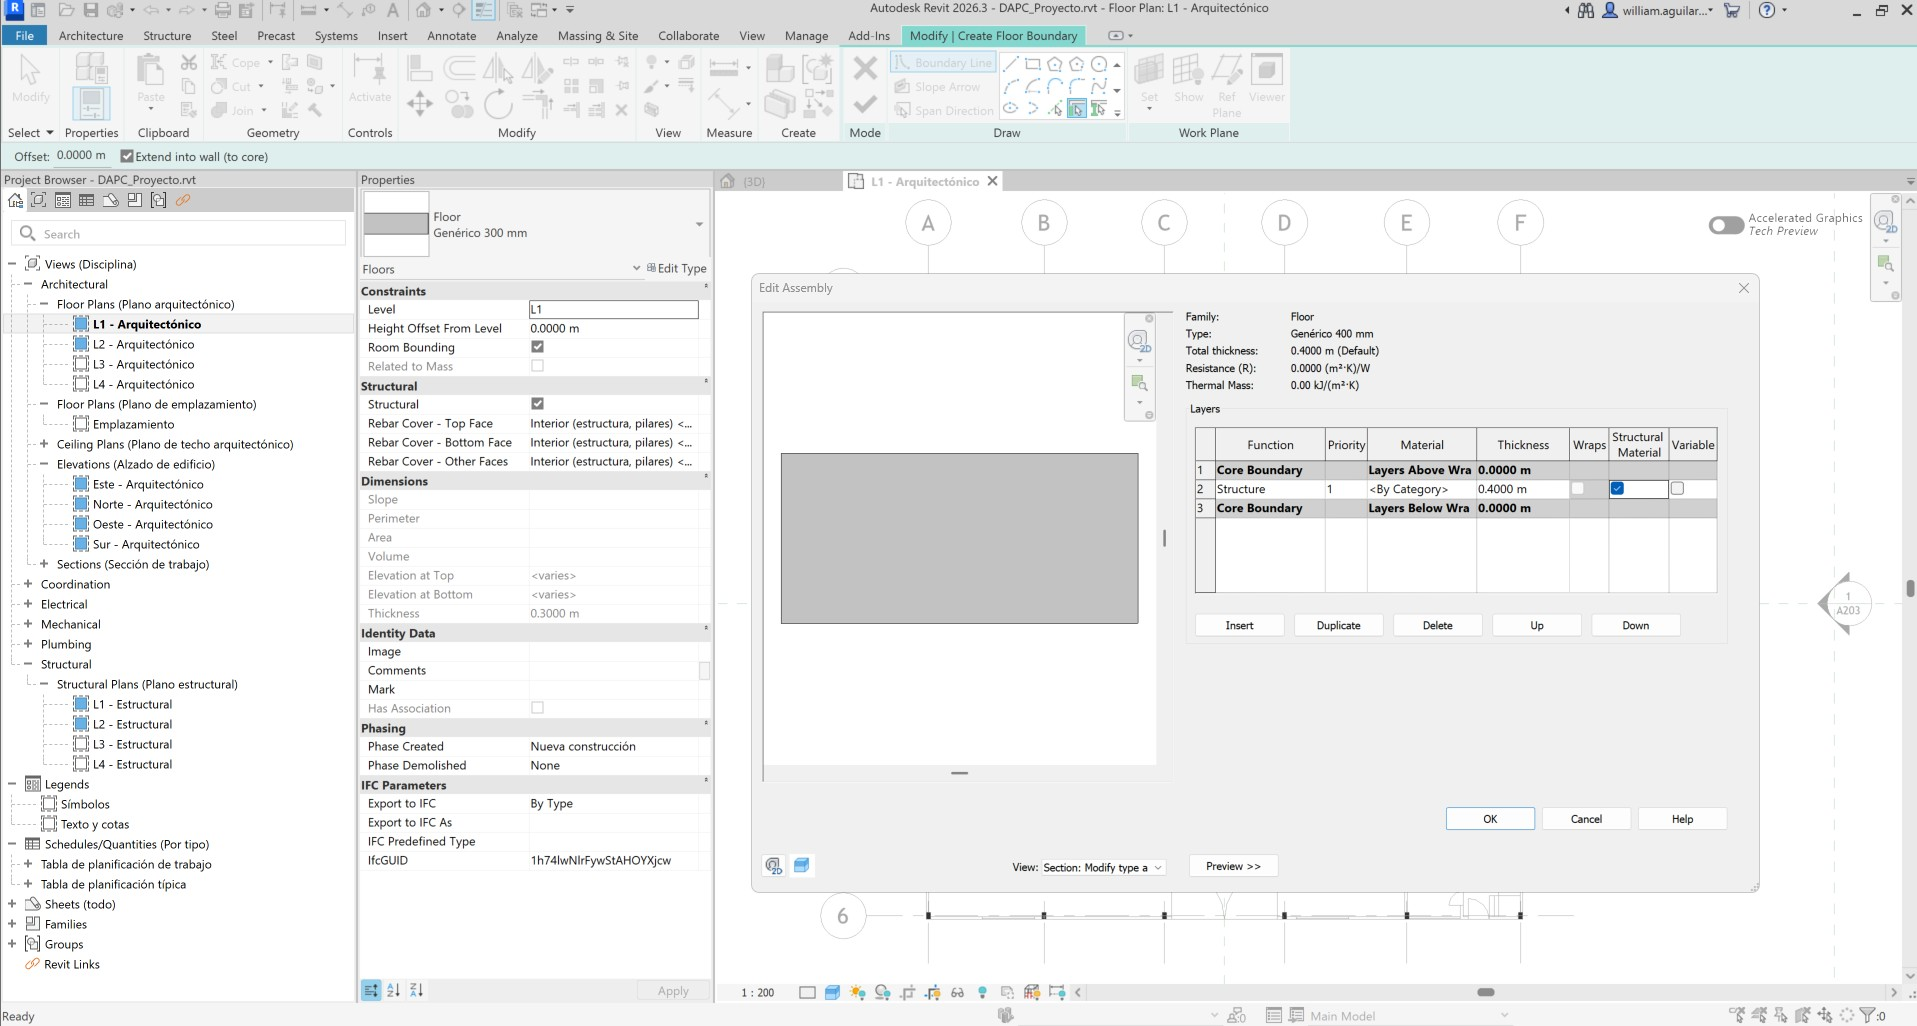
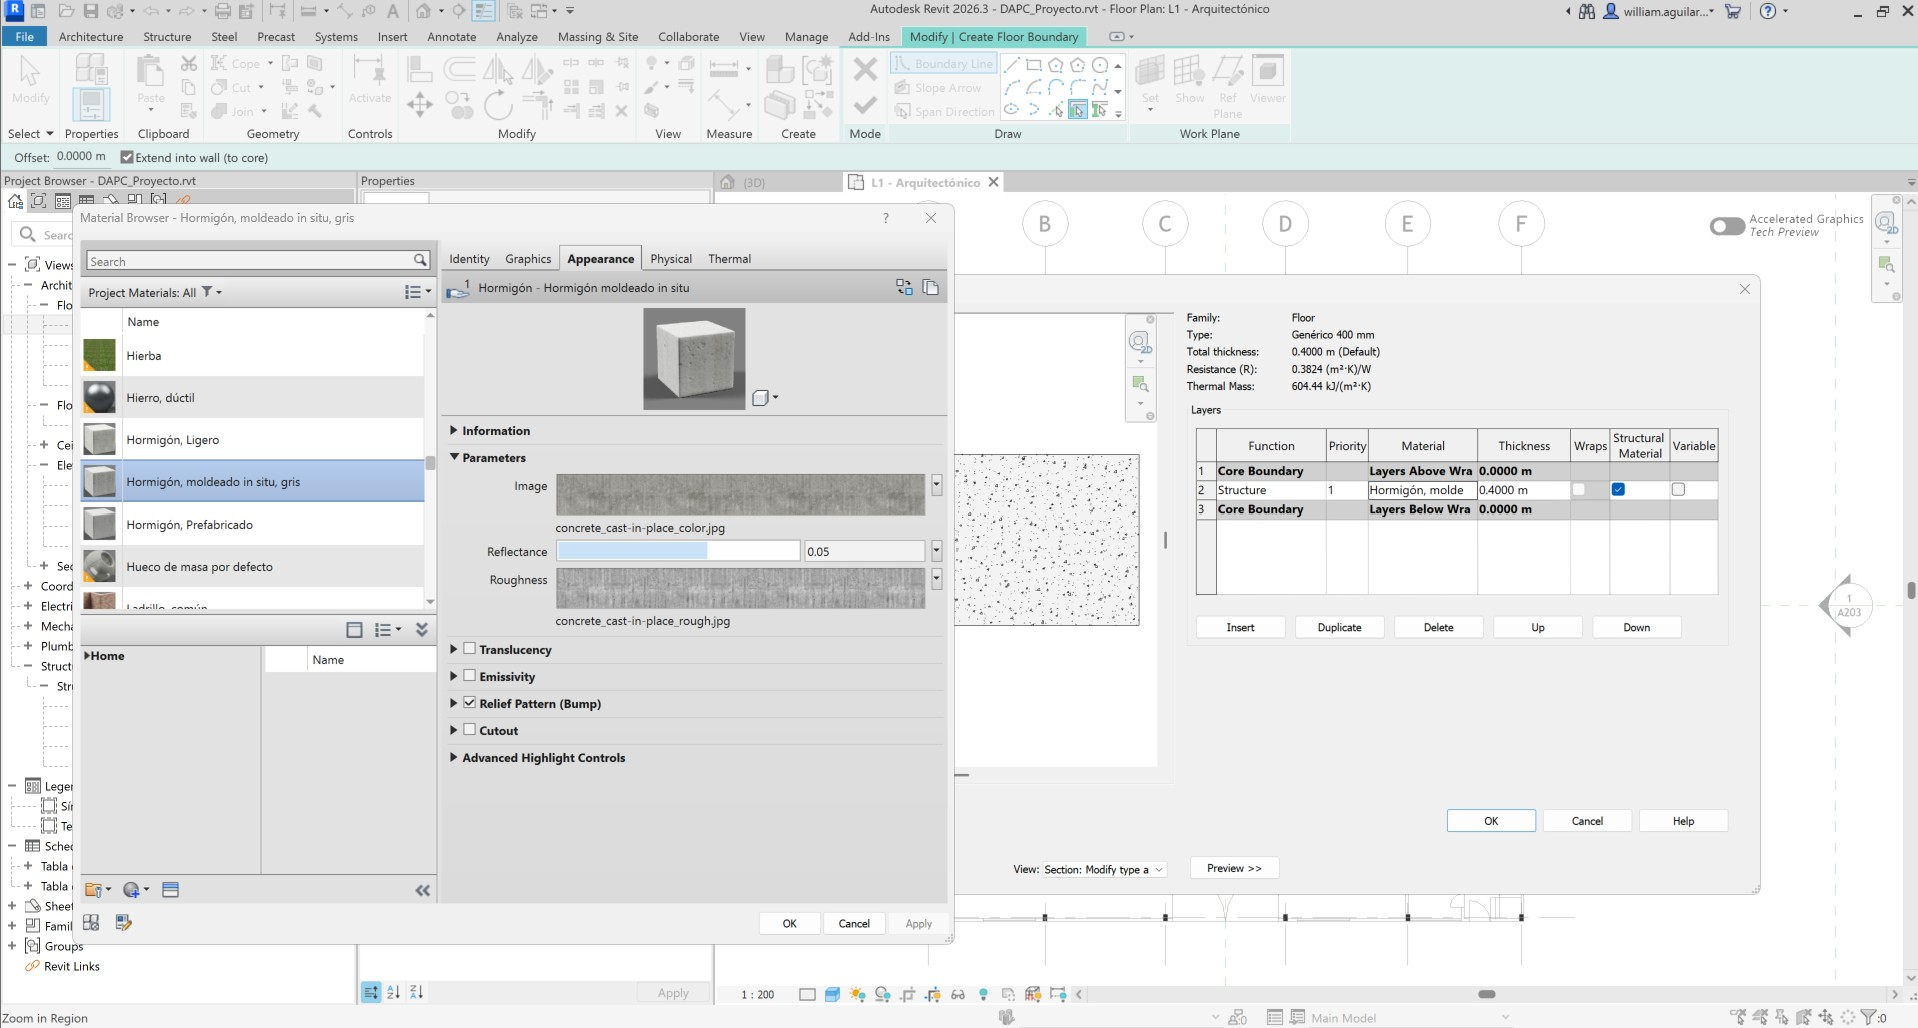
General update.

diff --git a/activity/M03A03a/Readme.md b/activity/M03A03a/Readme.md
@@ -165,11 +165,17 @@ Para el desarrollo del proyecto, es requerida la placa contrapiso reforzada en t
 
 <div align="center"><img src="graph/Revit_Floor.jpg" alt="R.DAPC" width="100%" border="0" /></div>
 
-2. En el editor de tipos, de clic en el botón _Duplicate_ nombrando como _Genérico 400 mm_, edite las propiedades de la placa especificando el grosor requerido. Podrá observar que este tipo de placa no tiene ningún tipo de recubrimiento superior o aislamiento inferior. Opcionalmente, puede utilizar un tipo de losa que contenga las diferentes capas requeridas, incluidos morteros, recubrimientos y aislamientos. 
+2. En el editor de tipos, de clic en el botón _Duplicate_ nombrando como _Genérico 400 mm_, edite las propiedades de la placa especificando el grosor requerido. Podrá observar que este tipo de placa no tiene ningún tipo de recubrimiento superior o aislamiento inferior. En material, especifique _Hormigón, moldeado in situ, gris_.  Opcionalmente, puede utilizar un tipo de losa que contenga las diferentes capas requeridas, incluidos morteros, recubrimientos y aislamientos. 
 
 <div align="center"><img src="graph/Revit_Floor1.jpg" alt="R.DAPC" width="100%" border="0" /></div>
 
-3. 
+3. Utilizando las herramientas de dibujo, cree líneas de contorno o un rectángulo alrededor del límite externo de la bodega y de clic en el botón Modify / Aceptar. Visualice en 3D.
+
+<div align="center"><img src="graph/Revit_Floor2.jpg" alt="R.DAPC" width="100%" border="0" /></div>
+
+4. Repita el procedimiento anterior creando una placa de 20 cm de espesor en el mezanine en el nivel arquitectónico _L2_ dibujando un área interna que permita dejar el vacío de la escalera.
+
+<div align="center"><img src="graph/Revit_Floor3.jpg" alt="R.DAPC" width="100%" border="0" /></div>
 
 
 
